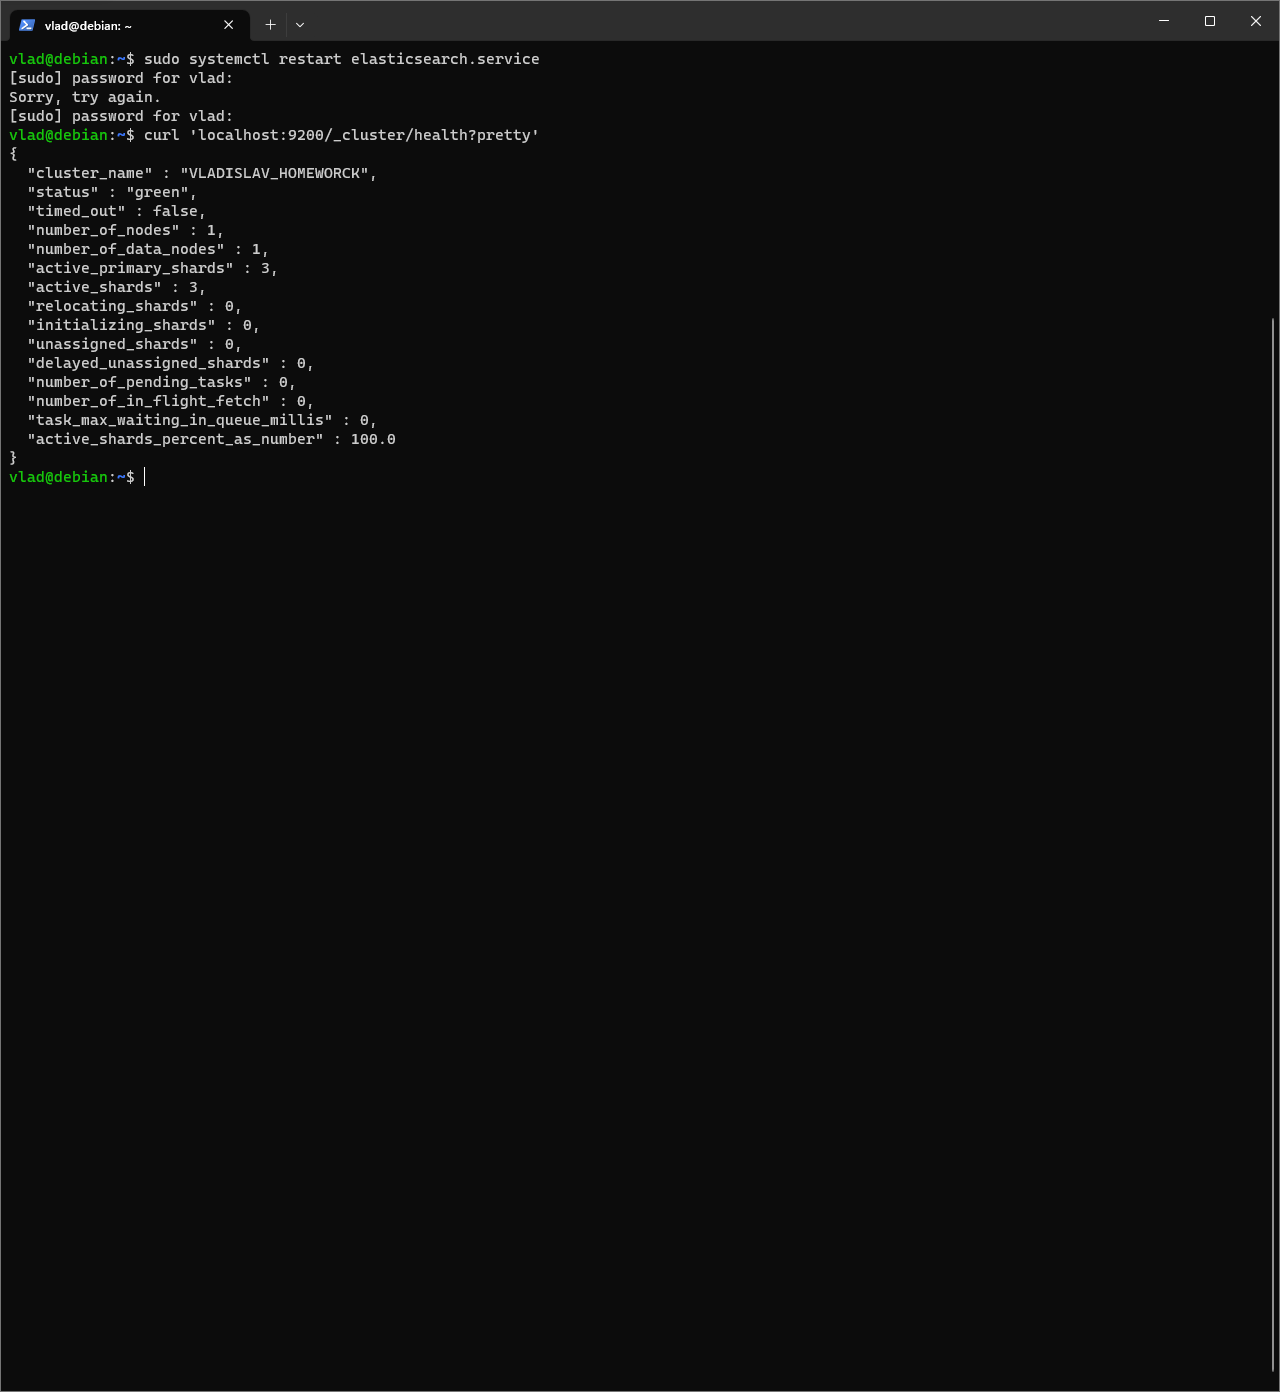
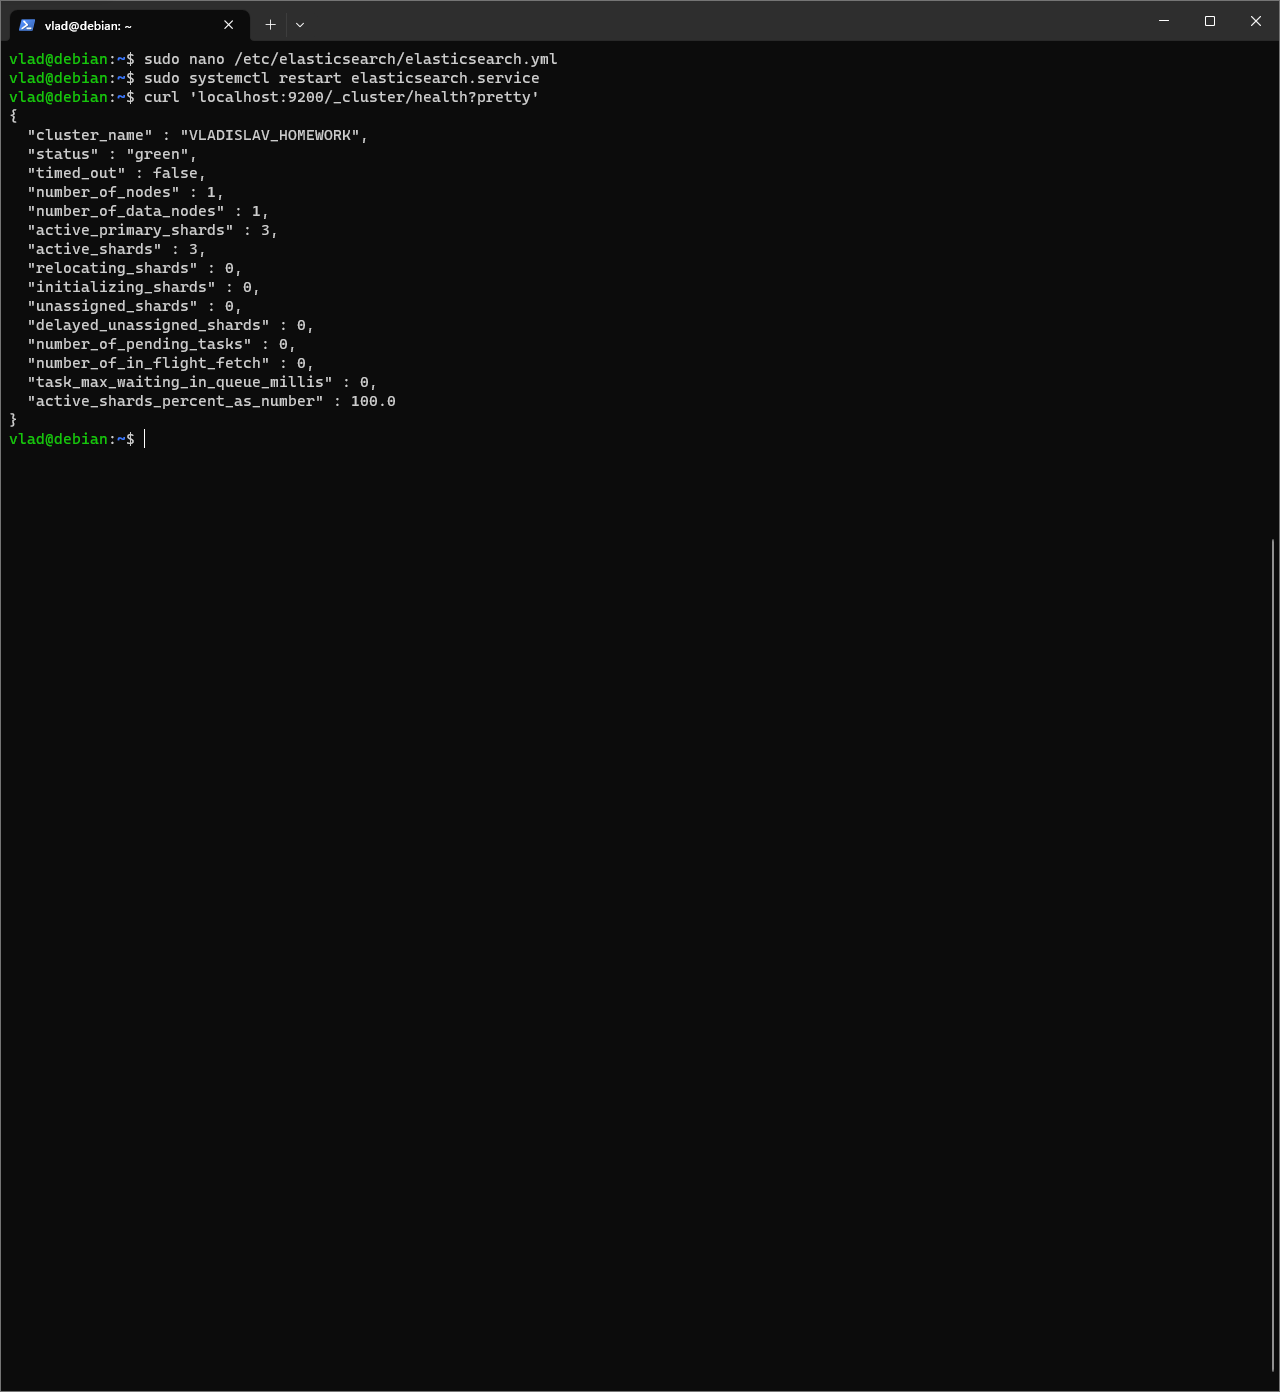
123

Changed region(s): [[0.0, 0.0309, 0.4375, 0.3707], [0.2812, 0.278, 0.3125, 0.3398]]

diff --git a/README.md b/README.md
@@ -1,1 +1,17 @@
-# ELK
+# 'ELK' | 'Владислав Бойко'
+---
+## Задание 1
+Почти наверняка поменть имя кластера можно с помощью команды но я поправил yml файл, т.к. для меня проще так.
+![скршот](https://github.com/VladiSlave2042/ELK/blob/main/img/1.1.png)
+---
+## Задание 2
+![скршот](https://github.com/VladiSlave2042/ELK/blob/main/img/2.1.png)
+---
+##
+---
+##
+---
+##
+---
+##
+---
